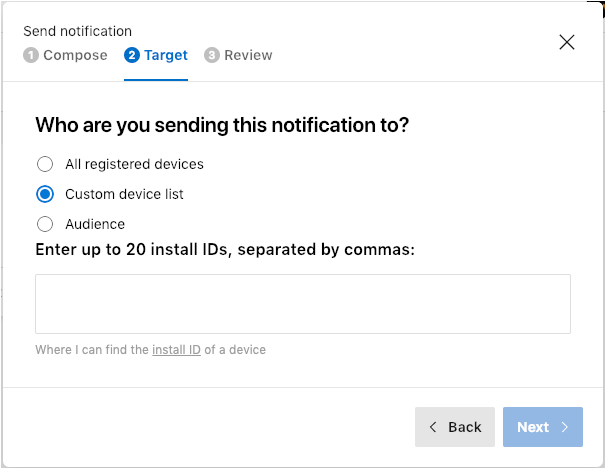
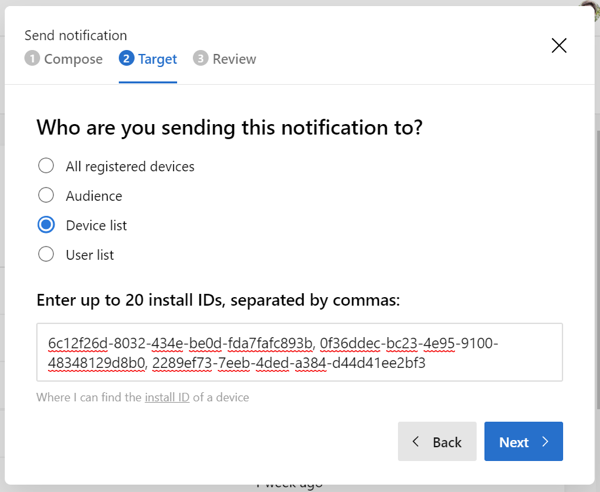
Jmw push to user ui (#1226)
* updated TOC

* typing, typing, typing...

* still typing, typing, typing...

* wrapped up, waiting on images

* added user input screen shot

* removed line

* updated image and small edits

* added images

* fixed content

* updated based on Kyle's feedback

diff --git a/docs/push/push-to-user.md b/docs/push/push-to-user.md
@@ -13,6 +13,101 @@ ms.custom: push
 
 # Push to User
 
-Along with sending notifications to devices directly or via Audiences, App Center Push enables customers to send notification messages to all of the devices associated with one or more users. 
+Along with sending notifications to devices directly or via Audiences, App Center Push enables customers to send notification messages to all of the devices associated with one or more users. App Center's ability to do this is controlled by the developer setting the user's identity directly through the App Center SDK or configuring the application to use the App Center Auth service.
 
-Since App Center supports setting user identity two different ways (using the SDK or using the App Center Auth service), the approach an app takes to send a notification to one or more users varies depending on how App Center obtained the target user's identity.
+**Note:** If the app user's identity is not set using either one of these options, then the feature will not work.
+
+## Setting user identity
+
+The following sections briefly describe how to set an app user's identity using App Center.
+
+### Setting user identity using the SDK
+
+Many apps use proprietary methods or third-party services to authenticate users in the app. To accommodate this use case, the App Center SDK offers a method the app uses to set the captured user identifier and pass it to App Center. With this approach, the app executes whatever process is wants to identify the user, once the app has a unique identifer for the user, it sets the user identity in App Center through the SDK.
+
+To set an app user's identity using the App Center SDK, refer to the following articles based on the target platform:
+
++ [Android SDK](~/sdk/other-apis/android.md#identify-users)
++ [iOS SDK](~/sdk/other-apis/ios.md#identify-users)
++ [macOS SDK](~/sdk/other-apis/macOS.md#identify-users)
++ [React Native SDK](~/sdk/other-apis/react-native.md#identify-users)
++ [Unity SDK](~/sdk/other-apis/unity.md#identify-users)
++ [Xamarin SDK](~/sdk/other-apis/xamarin.md#identify-users)
+
+> [!NOTE]
+> The user's identity set through the SDK can be whatever the developer wants it to be: the user's name, email address, phone number, or some other unique identifier.
+
+### Setting user identity using App Center Auth
+
+The App Center Auth service delivers an easy way for apps to authenticate users using a variety of third-party identity providers (like Facebook, Google, Microsoft). Auth handles signing in users and assigns a unique Account ID for the user. Refer to the App Center Auth documentation for additional information about this service.
+
+## Sending Notifications to Users
+
+Since App Center supports setting user identity two different ways (as described in the previous sections), the approach a developer uses to send a notification to one or more users through the App Center portal varies depending on how App Center obtained the target user's identity.
+
+> [!NOTE]
+> The two supported methods for sending notifications to users are mutually exclusive; you can only work with one approach at a time. If an app is configured for App Center Auth *and* sets user identity manually using the SDK, you can use this UI (or the App Center Push API) to send notifications to users via App Center Auth or the SDK set identity, but not both. If you want to use both, you must submit separate notification requests for each.
+
+1. Log into [App Center](https://appcenter.ms).
+2. Using the project navigator on the left side of the page, select the user account or the organization where the app project is defined, then select the app project from the list that appears.
+3. In the project navigator that opens, select **Push**.
+4. In the upper-right corner of the page, click the **Send notification** button.
+
+At this point, App Center opens the **Send notification** wizard to walk you through the process of creating a campaign and sending the notification. The first step in the process is to define the internal name for the campaign, and the content that's sent to target devices by App Center.
+
+![App Center Push Campaign Compose page](~/push/images/campaign-compose.png)
+
+1. Populate the **Campaign Name** field with a descriptive name for the campaign. The value you provide will display in the App Center campaign list page.
+2. (optional) Populate the **Title** field with an optional title for the notification sent to target devices.
+3. Populate the **Message** field with the content for the notification message. Message content is limited to 4,000 characters.
+4. Use the **Custom data** area of the form to define up to 20 key/value data pairs that you want included with the message. Click the **+** button to add a key/value pair. Click the **-** button to remove a key/value pair from the message.
+
+> [!TIP]
+> Custom data values enable campaigns to pass data into an application or trigger one or more actions within your client application. You can pass data directly to the app through a campaign, or send a URL the app uses to retrieve data. Applications can also use data values to set configuration options with in the application, changing app behavior through the campaign. For an implementation example, refer to [A/B Test All the Things: React Native Experiments with App Center](https://blogs.msdn.microsoft.com/vsappcenter/ab-test-all-the-things-react-native-experiments-with-app-center/).
+
+When you're done populating the form, click the **Next >** button to continue.
+
+On the next page, select **User list** as the target for the notification. This is where the UI will change based on the app's configuration in App Center:
+
++ If App Center Auth is configured for the app, the Push Wizard will display a search field used to search for users and add them to the target user list.
++ If App Center Auth is not configured for the app, the Push Wizard will display an input field to populate with a comma separated list of user identities set through the SDK.
+
+The following sections will describe how to use each of the user identity input options.
+
+> [!NOTE]
+> App Center tries to offer the best option first (based on the app's configuration), but don't worry, you can easily switch between the input modes with a single click. You'll see how in a minute.
+
+### App Center Auth set identity
+
+The App Center portal option for sending notifications to users through App Center Auth assumes you have the user's name or email address to search on. When sending to the same users through the App Center API, you'll use the user's Account ID (as described in the [App Center Push API documentation](~/push/rest-api.md#user-identity-set-using-auth)) as the API won't search for users.
+
+In the user input field, type the user's first name, last name, or email address; App Center will search the App Center Auth user database for this app for users that match the search criteria. When you find a match, select the matching user and the user will be added to the list.
+
+![App Center Push Account ID Search](~/push/images/account-id-search.png)
+
+If you want to send to user identities defined using the App Center SDK, click the **Switch to User ID input** link.
+
+Repeat the search until you've added all of the users to the list.
+
+![App Center Push user list](~/push/images/account-id-search-finished.png)
+
+When all of the targeted users are in the list, click the **Next>** button to complete the wizard and send the notification.
+
+> [!NOTE]
+> The Push to User feature limits notifications to 100 users and up to a maximum of 1,000 target devices.
+
+### SDK set identity
+
+To send a notification to one or more users, the app must set the User ID through the SDK, and keep a copy of the identity later in order to identify target users for notifications. Developers typically store the ID in the app's backend system for reference later. Collect up to 100 user identifiers, build them into a comma-separated list, and paste them into the input field shown in the following figure.
+
+If you want to send to user identities defined using App Center Auth, click the **Switch to user search** link.
+
+![App Center Push User ID input](~/push/images/user-id-input.png)
+
+> [!NOTE]
+> The user's identity set through the SDK can be whatever the developer wants it to be: the user's name, email address, phone number, or some other unique identifier.
+
+When all of the targeted users are in the list, click the **Next>** button to complete the wizard and send the notification.
+
+> [!NOTE]
+> The Push to User feature limits notifications to 100 users and up to a maximum of 1,000 target devices.

diff --git a/docs/push/rest-api.md b/docs/push/rest-api.md
@@ -301,7 +301,7 @@ Send the body of the request in JSON format (using the `application/json` conten
 
 In this example:
 
-+ `name`: Defines the name for the notification message.
++ `name`: Defines the name for the notification message.ß
 + `title`: Defines the title for the notification message. On target platforms where the notification is displayed in a notification area, this value displays in the title area of the notification.
 + `body`: Defines the notification content displayed with the message.
 + `custom_data`: Defines additional data values (delivered as a JSON object) passed to the target application running on the device. The application retrieves this data from the message and uses it in some app-appropriate way.
@@ -310,6 +310,9 @@ In this example:
 ### Send notifications to users
 
 Since App Center supports setting user identity two different ways (using the SDK or using the App Center Auth service), the approach an app takes to send a notification to one or more users varies depending on how App Center obtained the target user's identity.
+
+> [!NOTE]
+> The two supported methods for sending notifications to users are mutually exclusive; you can only work with one approach at a time. If an app is configured for App Center Auth *and* sets user identity manually using the SDK, you can use the Push API (or the App Center portal) to send notifications to users via App Center Auth or the SDK set identity, but not both. If you want to use both, you must submit separate notification requests for each.
 
 #### User Identity set through the SDK
 
@@ -360,6 +363,9 @@ In this example:
 + `custom_data`: Defines additional data values (delivered as a JSON object) passed to the target application running on the device. The application retrieves this data from the message and uses it in some app-appropriate way.
 + `user_ids` Defines the list of user identities (User ID) to which notifications are sent.
 
+> [!NOTE]
+> The App Center Push to User feature limits notifications to 100 users and up to a maximum of 1,000 target devices.
+
 #### User Identity set using Auth
 
 The App Center Auth service delivers an easy way for apps to authenticate users using a variety of third-party identity providers (like Facebook, Google, Microsoft). Auth handles signing in users and assigns a unique Account ID for the user. Using that Account ID, an application can send notifications to specific users. To send a notification to one or more users, the app must grab the Account ID (included in the asynchronous result returned from Auth's `signin` method) in order to identify target users for notifications. Developers typically store the Account ID in the app's backend system for reference later.
@@ -396,4 +402,4 @@ In this example:
 + `account_ids` Defines the list of user identities (Account ID) to which notifications are sent.
 
 > [!NOTE]
-> The App Center Push to User feature limits notifications to 1,000 target devices. If you use the API to send notifications to 800 users, but each has two devices registered, only the 1,000 devices will be notified.
+> The App Center Push to User feature limits notifications to 100 users and up to a maximum of 1,000 target devices.

diff --git a/docs/push/send-notification.md b/docs/push/send-notification.md
@@ -60,7 +60,7 @@ When sending notifications through ACP, you can target destination devices (noti
 + **All registered devices**: Sends notifications to all registered devices. Depending on the size of your target audience, this could take a long time to complete.
 + **Audiences**: Sends notifications to a segment of your app's registered device audience based on a set of device and custom properties. See [Audiences](#audiences) below for additional information.
 + **Device list**: Sends notifications to up to 20 devices (using the install IDs for the target devices). When you select this option, populate the input field with a list of the Install IDs for the devices you want to send the notification to, separating IDs with commas.
-+ **User**: 
++ **User**: Send notifications to all of the registered devices for up to 100 users. The user identity value used can be set using the App Center SDK or the App Center Auth service.
 
 In the wizard's **Target** panel, make the selection that makes the most sense for your campaign.
 
@@ -183,11 +183,12 @@ You can also open the Audience for editing, then in the upper-right corner of th
 
 ## Send to user
 
-
+To send notifications to specific users, follow the instructions in [Push to User](~/push/push-to-user.md).
 
 ## Limitations
 
 + App Center limits Audiences to a maximum of 1,000 devices. If you create an audience targeting more than 1,000 devices, App Center Push sends notifications to the first 1,000 devices that match the audience criteria, and skip all remaining devices (failing silently).
++ The Push to User feature limits notifications to 100 users.
 + The maximum number of Audiences for any App Center app project is 200.
 + You can define a maximum of 60 custom properties per app project.
 + Audiences match only devices that have a valid push registrations. For that reason, testing Audiences on an iOS simulator will fail.

diff --git a/docs/TOC.md b/docs/TOC.md
@@ -167,6 +167,7 @@
 ### [Xamarin.Android](sdk/push/xamarin-android.md)
 ### [Xamarin.Forms](sdk/push/xamarin-forms.md)
 ## [Sending Push Notifications](push/send-notification.md)
+## [Push to User](push/push-to-user.md)
 ## [Using the REST API](push/rest-api.md)
 ## [Tips and Tricks](push/tips.md)
 ## [Troubleshooting](push/troubleshooting.md)
